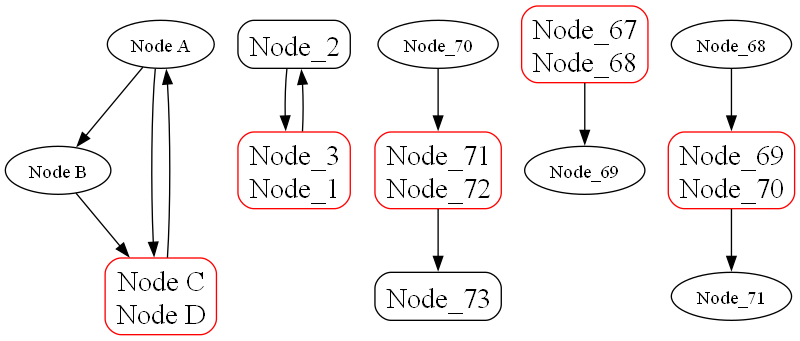
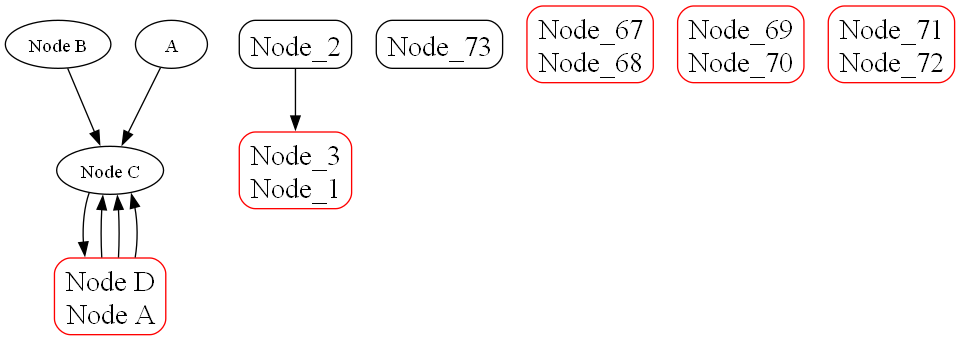
truy to fix bug

diff --git a/main.py b/main.py
@@ -32,13 +32,11 @@ def process_graph(graph, logger):
 # Function to combine consecutive nodes
 def combine_consecutive_nodes(graph, logger):
 
-    edges = graph.get_edges()
-
     visited  = []
 
     if len(graph.get_nodes()) == 0:
 
-        for e in edges:
+        for e in graph.get_edges():
 
             if e.get_source() not in visited:
                 graph.add_node(pydot.Node(e.get_source()))
@@ -56,19 +54,18 @@ def combine_consecutive_nodes(graph, logger):
     for node in graph.get_nodes():
 
         node_name = node.get_name()
-        dst_of_node = [e.get_destination() for e in edges if e.get_source() == node_name]
-        src_of_node = [e.get_source() for e in edges if e.get_destination() == node_name]
+        dst_of_node = [e.get_destination() for e in graph.get_edges() if e.get_source() == node_name]
+        src_of_node = [e.get_source() for e in graph.get_edges() if e.get_destination() == node_name]
         
-        if len(dst_of_node) == 1 and len(src_of_node) == 1:
-
-            # if edge_exists(graph,  src_of_node[0] ,dst_of_node[0]):# handle loops
-            #     continue
+        if len(src_of_node) == 1:
+            
+            # check updated graph changes during loop itrations to prevdent bug.
             nodes_name = [node_obj.get_name() for node_obj in graph.get_nodes()]
-            if src_of_node[0] not in nodes_name or dst_of_node[0] not in nodes_name:
+            if src_of_node[0] not in nodes_name:
                 continue
 
             # Combine the nodes
-            child_of_src = [e.get_source() for e in edges if e.get_source() == src_of_node[0]]
+            child_of_src = [e.get_source() for e in graph.get_edges() if e.get_source() == src_of_node[0]]
 
             if len(child_of_src) != 1:
                 continue
@@ -79,49 +76,19 @@ def combine_consecutive_nodes(graph, logger):
             new_node = pydot.Node(new_node_name, label=node_content, shape='Mrecord' ,fontsize=22 ,color='red')
             graph.add_node(new_node)
             inserted_node += 1
-            graph.add_edge(pydot.Edge(new_node, dst_of_node[0]))
+            for dest in dst_of_node:
+                graph.add_edge(pydot.Edge(new_node, dest))
 
-            for e in edges:
+            for e in graph.get_edges():
                 if e.get_destination() == src_of_node[0]:
                     graph.add_edge(pydot.Edge(e.get_source(), new_node))
                     graph.del_edge(e.get_source(), e.get_destination())
-                elif e.get_source() == src_of_node[0]:
+                if e.get_source() == src_of_node[0]:
                     graph.del_edge(e.get_source(), e.get_destination())
-                elif e.get_destination() == dst_of_node[0]:
-                    graph.del_edge(e.get_source(), e.get_destination())
-                
-            graph.del_node(node_name)
-            graph.del_node(src_of_node[0])
-            deleted_node += 2
-
-            # if edge_exists(graph,  src_of_node[0] ,dst_of_node[0]):# handle loops
-            #     continue
-            nodes_name = [node_obj.get_name() for node_obj in graph.get_nodes()]
-            if src_of_node[0] not in nodes_name or dst_of_node[0] not in nodes_name:
-                continue
-
-            # Combine the nodes
-            child_of_src = [e.get_source() for e in edges if e.get_source() == src_of_node[0]]
-
-            if len(child_of_src) != 1:
-                continue
-
-            new_node_name = src_of_node[0] + "_" + node_name
-            source_node = [n for n in graph.get_nodes() if n.get_name() == src_of_node[0]]
-            node_content = f"{source_node[0].get_label()}\n{node.get_label()}".replace('"', '')
-            new_node = pydot.Node(new_node_name, label=node_content, shape='Mrecord' ,fontsize=22 ,color='red')
-            graph.add_node(new_node)
-            inserted_node += 1
-            graph.add_edge(pydot.Edge(new_node, dst_of_node[0]))
-
-            for e in edges:
-                if e.get_destination() == src_of_node[0]:
-                    graph.add_edge(pydot.Edge(e.get_source(), new_node))
-                    graph.del_edge(e.get_source(), e.get_destination())
-                elif e.get_source() == src_of_node[0]:
-                    graph.del_edge(e.get_source(), e.get_destination())
-                elif e.get_destination() == dst_of_node[0]:
-                    graph.del_edge(e.get_source(), e.get_destination())
+                if e.get_destination() == dst_of_node[0]:
+                    for dest in dst_of_node:
+                        graph.add_edge(pydot.Edge(new_node, dest))
+                        graph.del_edge(e.get_source(), e.get_destination())
                 
             graph.del_node(node_name)
             graph.del_node(src_of_node[0])
